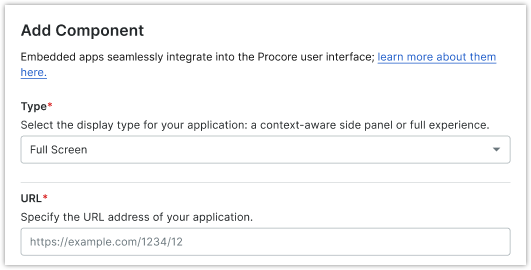
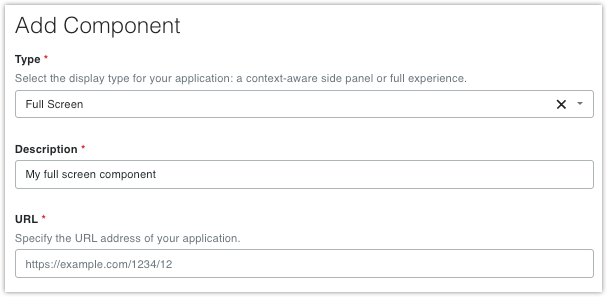
updated images and misc fixes

diff --git a/building_applications/building_side_panel_apps.md b/building_applications/building_side_panel_apps.md
@@ -42,10 +42,11 @@ If you are building a data connection application based on developer managed ser
 See [Understanding App Types]({{ site.url }}{{ site.baseurl }}{% link building_applications/building_apps_app_types.md %}) for additional information on application types and components.
 Follow these steps to add a new side panel component.
 
-### 1. Specify Component Type and Application URL
+### 1. Specify Component Type, Description, and Application URL
 
 * Navigate to the Configuration Buidler on the Manage App page, expand the Components section and click **Add Component**.
 * Using the drop-down, select **Side Panel** for the component Type.
+* Enter a Description for the component.
 * In the URL field, specify the base web address for your application. (e.g., https://example.com/1234/12).
 
     ![Component Type and Description]({{ site.baseurl }}/assets/guides/form-based-component-type-url-fields.png)
@@ -58,7 +59,7 @@ Follow these steps to add a new side panel component.
 
   ![Component Add Param]({{ site.baseurl }}/assets/guides/form-based-component-add-param.png)
 
-* Define the Name, Type, Key, and Description for the custom parameter.
+* Define the Name, Key, and Description for the custom parameter.
 * Specify whether the parameter is required at time of installation.
 
   ![Component Add Param Field]({{ site.baseurl }}/assets/guides/form-based-component-add-param-custom.png)
@@ -71,8 +72,8 @@ You can specify which tools, resources, and actions your application works with 
 As some tools comprise more than one resource (e.g., commitments), this approach is both granular and flexible.
 For example, you might want your app to display only on the list page, but not on the detail page.
 
-* Use the **Side Panel Views** section to select one or more side panel Views for your application.
-Use the **Search Tools** field to find the tools/views you want to select.
+* Use the **Side Panel Views** drop-down list to select one or more side panel Views for your application.
+
 
   ![Add Views]({{ site.baseurl }}/assets/guides/form-based-component-add-views.png)
 

diff --git a/building_applications/building_embedded_fullscreen_apps.md b/building_applications/building_embedded_fullscreen_apps.md
@@ -38,10 +38,11 @@ If you are building a data connection application based on developer managed ser
 See [Understanding App Types]({{ site.url }}{{ site.baseurl }}{% link building_applications/building_apps_app_types.md %}) for additional information on application types and components.
 Follow these steps to add a new full screen component.
 
-### 1. Specify Component Type and Application URL
+### 1. Specify Component Type, Description, and Application URL
 
 * Navigate to the Configuration Builder on the Manage App page, expand the Components section and click **Add Component**.
 * Using the drop-down, select **Full Screen** for the component Type.
+* Enter a Description for the component.
 * In the URL field, specify the base web address for your application. (e.g., https://example.com/1234/12).
 
     ![Component Type and App URL]({{ site.baseurl }}/assets/guides/form-based-component-type-url-fields-fs.png)

diff --git a/building_applications/building_apps_manage_collabs.md b/building_applications/building_apps_manage_collabs.md
@@ -27,7 +27,7 @@ To see which permissions are defined for each role, click **View Permission Deta
 You can add members to your development team and assign them to appropriate roles based on their function within your organization.
 
 1. On the Manage App page, select the 'Collaborators' section.
-1. Click **Invite Collaborator**.
+1. Click **Add Another User**.
 1. Enter the Email Address for the new team member, select the appropriate role (Admin or Developer), and click **Send Invitation**.
 
 ![Add team member]({{ site.baseurl }}/assets/guides/form-based-collab-add-new.png)
